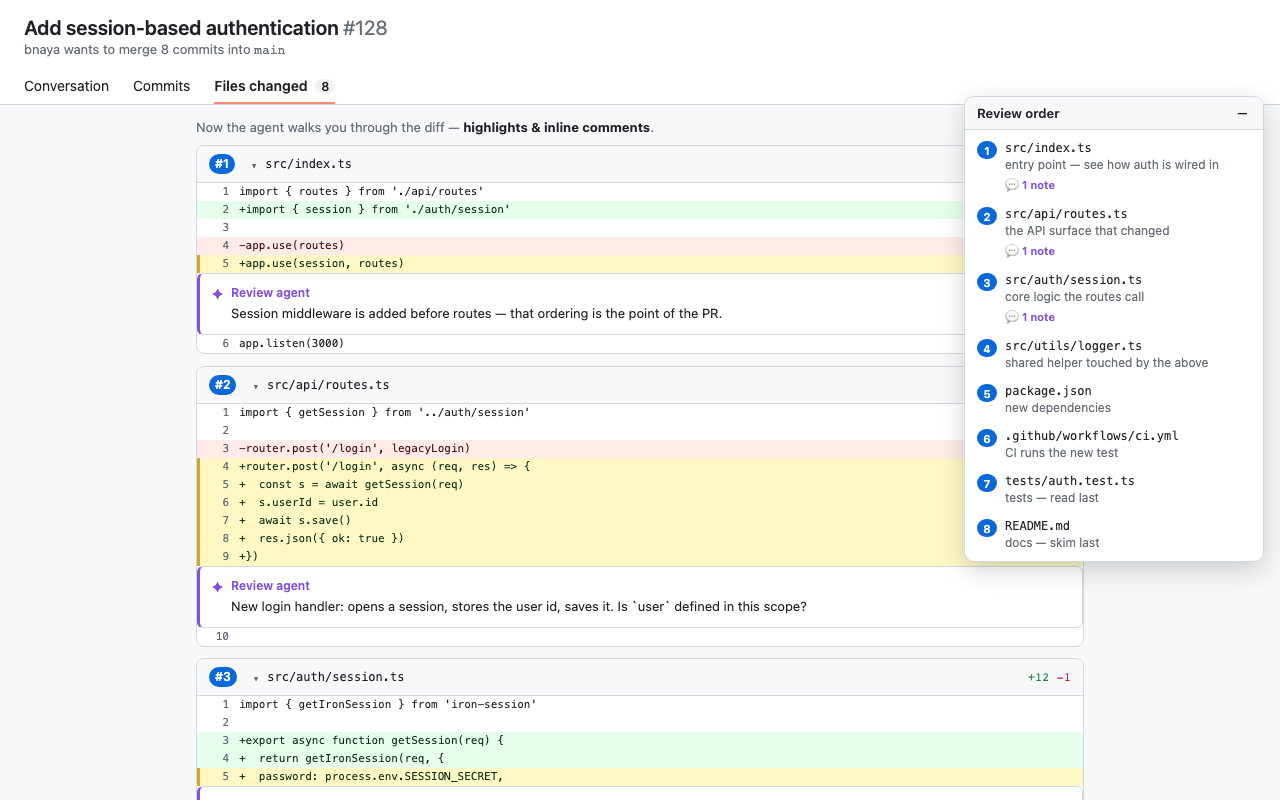
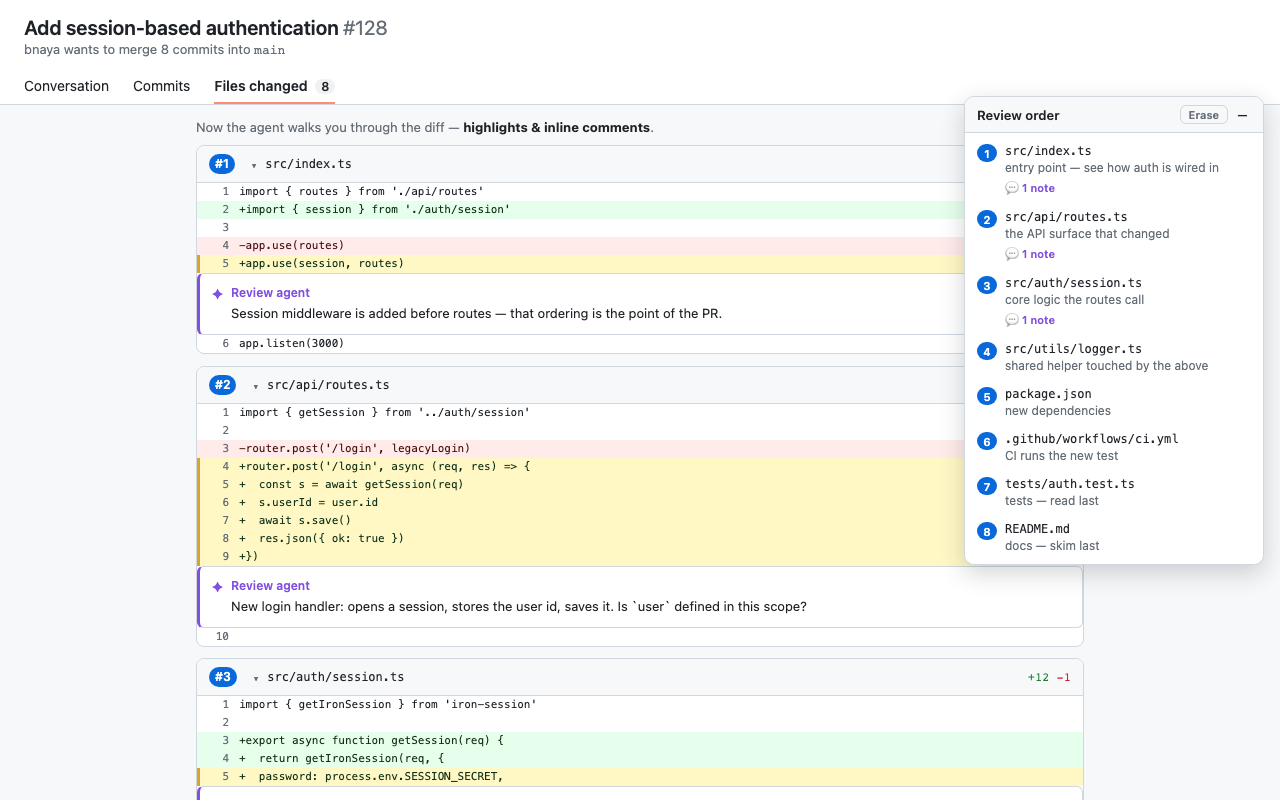
feat: cache the sort per PR + add an Erase button
The order is now cached in chrome.storage.local keyed by owner/repo/number. The content script captures params on ANY of a PR's pages (conversation, files, comment link) and re-applies on the Files tab even when that URL has no params. An Erase button in the order panel clears the PR's cache, strips the params from the URL, and restores GitHub's native order in place. Adds the 'storage' permission; bumps to v1.1.0. Tests: 25 pass (erase restore, erase event, cache decision, storage round-trip, prId).

Changed region(s): [[0.75, 0.125, 0.9688, 0.7188], [0.9375, 0.125, 0.9688, 0.1562]]

diff --git a/extension/content.js b/extension/content.js
@@ -19,6 +19,11 @@
  * string is rejected around 7 KB). The query string (?...) is still read, for
  * short links. Remote params (gist/url) are fetched by the background worker.
  *
+ * Caching: when an order is seen on ANY of a PR's pages (conversation, files, …),
+ * it's cached per PR (owner/repo/number) in chrome.storage.local and re-applied on
+ * the files view even when that URL has no params. The order panel has an "Erase"
+ * button that clears the cache for the PR and restores GitHub's native order.
+ *
  * The core (resolveOrder / parseOrder / decorate / encode) is exposed on
  * window.PRReviewSorter so the demo and tests reuse the exact same code.
  */
@@ -238,7 +243,10 @@
     head.className = "prrs-panel-head";
     head.innerHTML =
       '<span class="prrs-panel-title">Review order</span>' +
-      '<button class="prrs-panel-toggle" title="Collapse">–</button>';
+      '<span class="prrs-panel-actions">' +
+      '<button class="prrs-erase" title="Erase sorting and restore GitHub\'s order">Erase</button>' +
+      '<button class="prrs-panel-toggle" title="Collapse">–</button>' +
+      "</span>";
     panel.appendChild(head);
 
     const list = document.createElement("ol");
@@ -291,6 +299,13 @@
       e.stopPropagation();
       panel.classList.toggle("prrs-collapsed");
     });
+    const eraseBtn = head.querySelector(".prrs-erase");
+    if (eraseBtn) {
+      eraseBtn.addEventListener("click", (e) => {
+        e.stopPropagation();
+        document.dispatchEvent(new CustomEvent("prrs:erase"));
+      });
+    }
     return panel;
   }
 
@@ -375,6 +390,11 @@
     const filesContainer = root.querySelector("#files") || map.values().next().value.parentElement;
     if (!filesContainer) return { matched: 0, total: map.size };
 
+    // Remember the native order once, so "Erase" can restore it without a reload.
+    if (!filesContainer.__prrsOriginal) {
+      filesContainer.__prrsOriginal = Array.prototype.slice.call(filesContainer.children);
+    }
+
     // Desired sequence: ordered matches first, then anything the agent left out.
     const orderedEls = [];
     const seen = new Set();
@@ -416,54 +436,181 @@
     return { applied: true, matched: res.matched, total: res.total };
   }
 
+  // ---- Per-PR cache (so params on any of a PR's URLs apply on the files view) ----
+
+  /** owner/repo/number for the current PR, or null. */
+  function prId(pathname) {
+    const m = (pathname || "").match(/^\/([^/]+)\/([^/]+)\/pull\/(\d+)/);
+    return m ? m[1] + "/" + m[2] + "/" + m[3] : null;
+  }
+  const KEY_ORDER = (id) => "prrs:order:" + id;
+  const KEY_DISMISS = (id) => "prrs:dismissed:" + id;
+
+  function hasChromeStorage() {
+    return typeof chrome !== "undefined" && chrome.storage && chrome.storage.local;
+  }
+  function storeGet(keys) {
+    return new Promise((resolve) => {
+      try {
+        if (hasChromeStorage()) {
+          chrome.storage.local.get(keys, (r) => resolve(r || {}));
+          return;
+        }
+      } catch (e) {}
+      // Fallback: localStorage (demo/tests / no storage permission).
+      const out = {};
+      (Array.isArray(keys) ? keys : [keys]).forEach((k) => {
+        try {
+          const v = localStorage.getItem(k);
+          if (v != null) out[k] = JSON.parse(v);
+        } catch (e) {}
+      });
+      resolve(out);
+    });
+  }
+  function storeSet(obj) {
+    return new Promise((resolve) => {
+      try {
+        if (hasChromeStorage()) {
+          chrome.storage.local.set(obj, () => resolve());
+          return;
+        }
+      } catch (e) {}
+      Object.keys(obj).forEach((k) => {
+        try {
+          localStorage.setItem(k, JSON.stringify(obj[k]));
+        } catch (e) {}
+      });
+      resolve();
+    });
+  }
+  function storeRemove(keys) {
+    return new Promise((resolve) => {
+      try {
+        if (hasChromeStorage()) {
+          chrome.storage.local.remove(keys, () => resolve());
+          return;
+        }
+      } catch (e) {}
+      (Array.isArray(keys) ? keys : [keys]).forEach((k) => {
+        try {
+          localStorage.removeItem(k);
+        } catch (e) {}
+      });
+      resolve();
+    });
+  }
+
+  /** Decide which order to apply. Explicit params win; otherwise cache, unless erased. */
+  function chooseOrder(paramsOrder, cachedOrder, dismissed) {
+    if (paramsOrder && paramsOrder.length) return paramsOrder;
+    if (dismissed) return null;
+    return cachedOrder && cachedOrder.length ? cachedOrder : null;
+  }
+
+  /** Remove all of our decorations and restore GitHub's native file order. */
+  function eraseDecorations(root) {
+    root.querySelectorAll(".prrs-comment-row").forEach((n) => n.remove());
+    root.querySelectorAll(".prrs-badge").forEach((n) => n.remove());
+    root.querySelectorAll(".prrs-hl").forEach((n) => n.classList.remove("prrs-hl"));
+    root.querySelectorAll("[data-prrs-order]").forEach((n) => n.removeAttribute("data-prrs-order"));
+    const panel = document.getElementById("prrs-panel");
+    if (panel) panel.remove();
+    const c = root.querySelector("#files");
+    if (c && c.__prrsOriginal) {
+      c.__prrsOriginal.forEach((el) => {
+        if (el && el.parentElement === c) c.appendChild(el);
+      });
+    }
+  }
+
   const PRReviewSorter = {
     PARAM, PARAM_Z, PARAM_PATHS, PARAM_URL, PARAM_GIST,
     encode, parseOrder, resolveOrder, filesFromData, normalizeNotes,
     inflateToken, deflateToken, b64urlToBytes,
     collectFiles, decorate, makeBadge, makePanel, findLine, makeComment, addNote, applyNotes,
-    applyFromLocation,
+    applyFromLocation, prId, chooseOrder, eraseDecorations, storeGet, storeSet, storeRemove,
   };
   if (typeof window !== "undefined") window.PRReviewSorter = PRReviewSorter;
 
-  // ---- Auto-run on a real GitHub PR "Files changed" page ----
+  // ---- Auto-run on GitHub PR pages ----
   function isFilesView() {
     return /^\/[^/]+\/[^/]+\/pull\/\d+\/files\b/.test(location.pathname);
   }
-  function urlKey() {
-    return location.pathname + location.search + location.hash;
+  function alreadyApplied() {
+    return !!document.querySelector("[data-prrs-order]");
   }
 
-  let resolveKey = null;
-  let resolvedOrder = null;
-  let resolving = false;
-  let appliedKey = null;
+  let busy = false;
+  let capturedUrlKey = null;
+  // Resolve params once per URL so remote fetches don't repeat on every mutation.
+  let resolvedUrlKey = null;
+  let resolvedParamsOrder = null;
+  async function paramsOrderFor(loc) {
+    const key = (loc.search || "") + (loc.hash || "");
+    if (key === resolvedUrlKey) return resolvedParamsOrder;
+    resolvedUrlKey = key;
+    resolvedParamsOrder = await resolveOrder(loc);
+    return resolvedParamsOrder;
+  }
+
+  function stripParamsFromUrl() {
+    try {
+      const u = new URL(location.href);
+      const names = [PARAM, PARAM_Z, PARAM_PATHS, PARAM_URL, PARAM_GIST];
+      names.forEach((k) => u.searchParams.delete(k));
+      const h = (u.hash || "").replace(/^#/, "");
+      if (h) {
+        const hp = new URLSearchParams(h);
+        names.forEach((k) => hp.delete(k));
+        const hs = hp.toString();
+        u.hash = hs ? "#" + hs : "";
+      }
+      history.replaceState(null, "", u.toString());
+    } catch (e) {}
+  }
+
+  async function erase() {
+    const id = prId(location.pathname);
+    eraseDecorations(document);
+    if (id) {
+      await storeSet({ [KEY_DISMISS(id)]: true });
+      await storeRemove([KEY_ORDER(id)]);
+    }
+    stripParamsFromUrl();
+    resolvedUrlKey = null;
+    resolvedParamsOrder = null;
+    capturedUrlKey = null;
+  }
 
   async function run() {
-    if (!isFilesView()) return;
-    const key = urlKey();
-    if (appliedKey === key || resolving) return;
-    const map = collectFiles(document);
-    if (!map.size) return; // files not in the DOM yet
-    resolving = true;
+    if (busy) return;
+    const id = prId(location.pathname);
+    if (!id) return;
+    busy = true;
     try {
-      if (resolveKey !== key) {
-        resolveKey = key;
-        resolvedOrder = await resolveOrder(location); // remote/compressed resolved once per URL
+      const paramsOrder = await paramsOrderFor(location);
+      // An explicit order on ANY of this PR's pages → cache it and clear any prior erase.
+      if (paramsOrder && capturedUrlKey !== resolvedUrlKey) {
+        capturedUrlKey = resolvedUrlKey;
+        await storeSet({ [KEY_ORDER(id)]: { files: paramsOrder, ts: Date.now() }, [KEY_DISMISS(id)]: false });
       }
-      if (!resolvedOrder) return;
-      if (document.querySelector("[data-prrs-order]")) {
-        appliedKey = key;
-        return;
-      }
-      const res = decorate(document, resolvedOrder);
-      appliedKey = key;
-      console.log("[pr-review-sorter] ordered", res.matched, "of", res.total, "files");
+      if (!isFilesView()) return; // only the files view has a diff to decorate
+      if (alreadyApplied()) return;
+      if (!collectFiles(document).size) return; // files not in the DOM yet
+      const st = await storeGet([KEY_ORDER(id), KEY_DISMISS(id)]);
+      const cached = st[KEY_ORDER(id)] && st[KEY_ORDER(id)].files;
+      const order = chooseOrder(paramsOrder, cached, !!st[KEY_DISMISS(id)]);
+      if (!order) return;
+      const res = decorate(document, order);
+      console.log("[pr-review-sorter] ordered", res.matched, "of", res.total, "files", paramsOrder ? "(from URL)" : "(from cache)");
     } finally {
-      resolving = false;
+      busy = false;
     }
   }
 
   if (typeof chrome !== "undefined" && chrome.runtime && chrome.runtime.id) {
+    document.addEventListener("prrs:erase", erase);
     // GitHub loads diffs progressively and navigates via Turbo; watch for both.
     const obs = new MutationObserver(() => run());
     obs.observe(document.documentElement, { childList: true, subtree: true });

diff --git a/extension/styles.css b/extension/styles.css
@@ -67,6 +67,36 @@
   padding: 0 4px;
 }
 
+.prrs-panel-actions {
+  display: flex;
+  align-items: center;
+  gap: 6px;
+}
+
+.prrs-erase {
+  border: 1px solid var(--color-border-default, #d0d7de);
+  background: transparent;
+  color: var(--color-fg-muted, #656d76);
+  font: 600 11px -apple-system, BlinkMacSystemFont, "Segoe UI", sans-serif;
+  padding: 2px 8px;
+  border-radius: 6px;
+  cursor: pointer;
+}
+
+.prrs-erase:hover {
+  background: #ffebe9;
+  color: #cf222e;
+  border-color: #cf222e;
+}
+
+@media (prefers-color-scheme: dark) {
+  .prrs-erase:hover {
+    background: #3c1618;
+    color: #ff7b72;
+    border-color: #ff7b72;
+  }
+}
+
 .prrs-panel-list {
   list-style: none;
   margin: 0;

diff --git a/demo/demo.js b/demo/demo.js
@@ -202,6 +202,12 @@
   seek(0);
   window.demoReady = true;
 
+  // Make the panel's Erase button work in the standalone demo too.
+  document.addEventListener("prrs:erase", () => {
+    window.PRReviewSorter.eraseDecorations(document);
+    seek(0);
+  });
+
   // Autoplay when opened directly in a browser (skip with ?static=1 for the recorder).
   if (!/[?&]static/.test(location.search)) {
     const play = () => {

diff --git a/README.md b/README.md
@@ -17,10 +17,17 @@ through the diff — all encoded in the same link, no API and no server.
 ## How it works
 
 1. A code agent (Claude, etc.) looks at a PR and picks a sensible reading order, a short reason per file, and — optionally — highlights key lines with inline comments.
-2. It encodes all of that into the PR's files URL — in the `#hash` by default.
+2. It encodes all of that into one of the PR's URLs — in the `#hash` by default (the conversation tab, the files tab, a comment link — any of them).
 3. You open the link. The extension reorders the diff, numbers each file, shows the order panel, and draws the highlights + comments inline.
 
 The agent needs no API and no server — it just builds a URL.
+
+## Caching & erase
+
+The order is **cached per PR** (owner/repo/number) in the browser. So the params only need
+to appear on the link **once, on any of the PR's pages** — after that, the Files tab stays
+sorted even when you reach it by a plain URL with no params. The order panel has an **Erase**
+button that clears the cache for that PR and restores GitHub's native order.
 
 ## Install
 

diff --git a/skills/pr-review-sorter/SKILL.md b/skills/pr-review-sorter/SKILL.md
@@ -117,4 +117,6 @@ The link only reorders the diff for someone who has the **PR Review Sorter** Chr
 
 - Only paths that actually changed in the PR are matched; extras are ignored, missing ones are greyed out in the panel.
 - Files you leave out still show — they're kept after the ordered ones.
+- The extension caches the order per PR, so the params can be on **any** of the PR's URLs (conversation, files, a comment link); the Files tab stays sorted afterward. You don't have to link the `/files` URL specifically.
+- The reviewer can click **Erase** in the order panel to clear it and restore GitHub's order.
 - The reviewer needs the extension installed (see above) for the link to reorder the diff.
